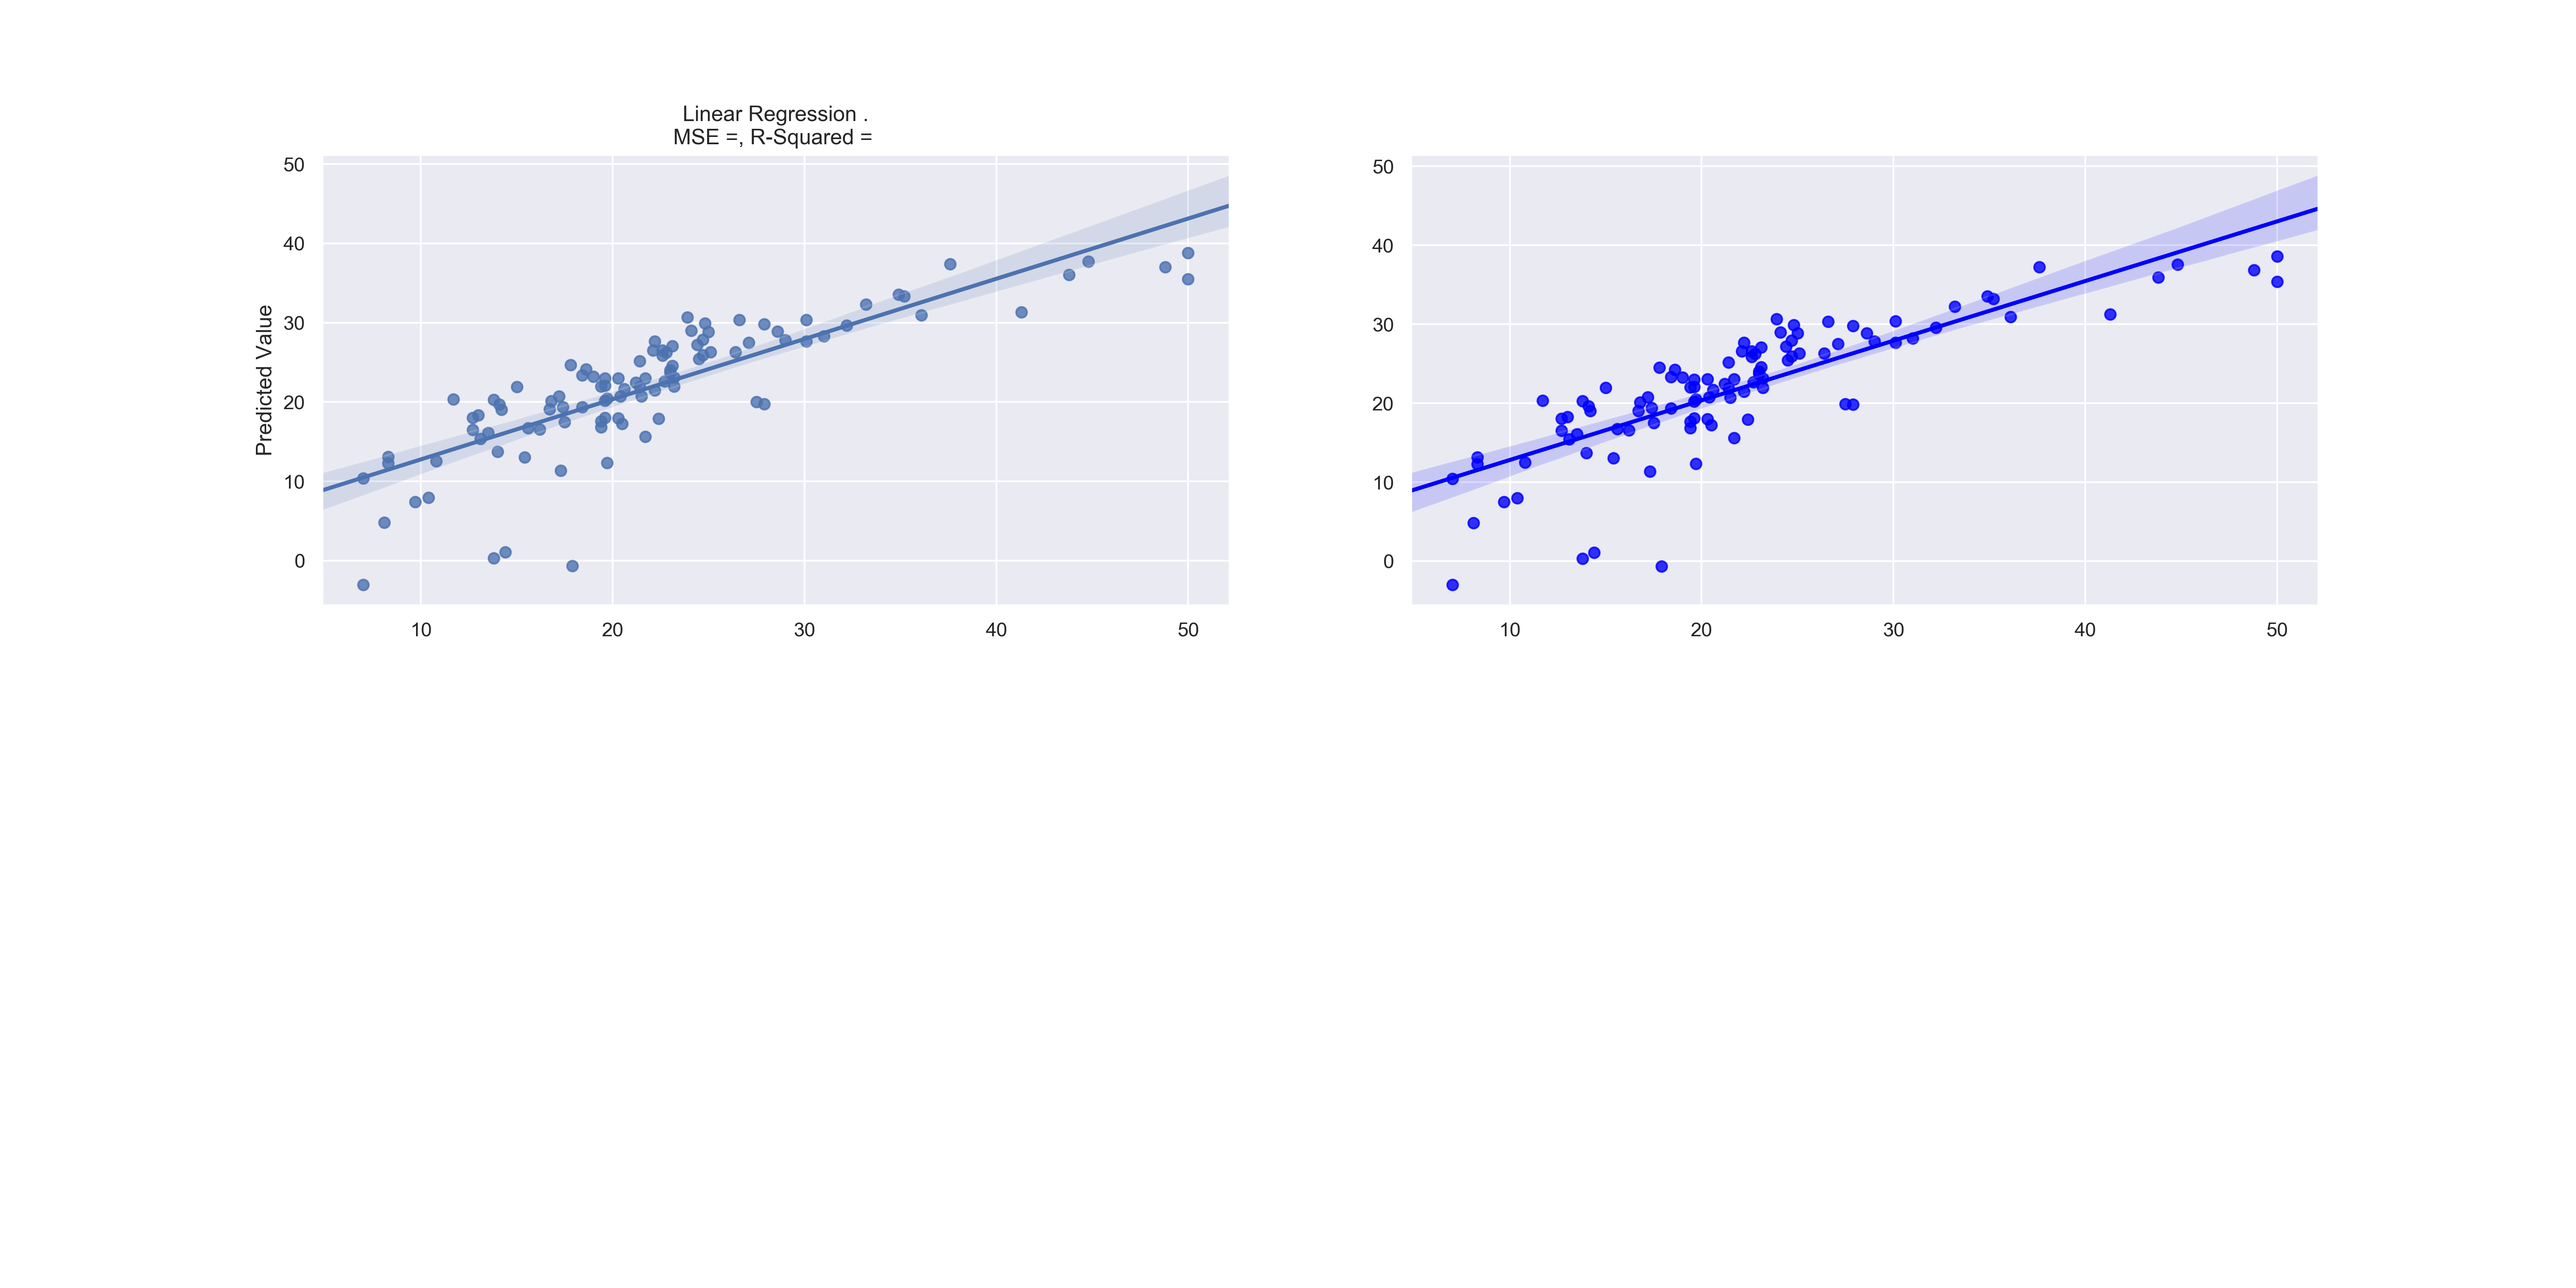
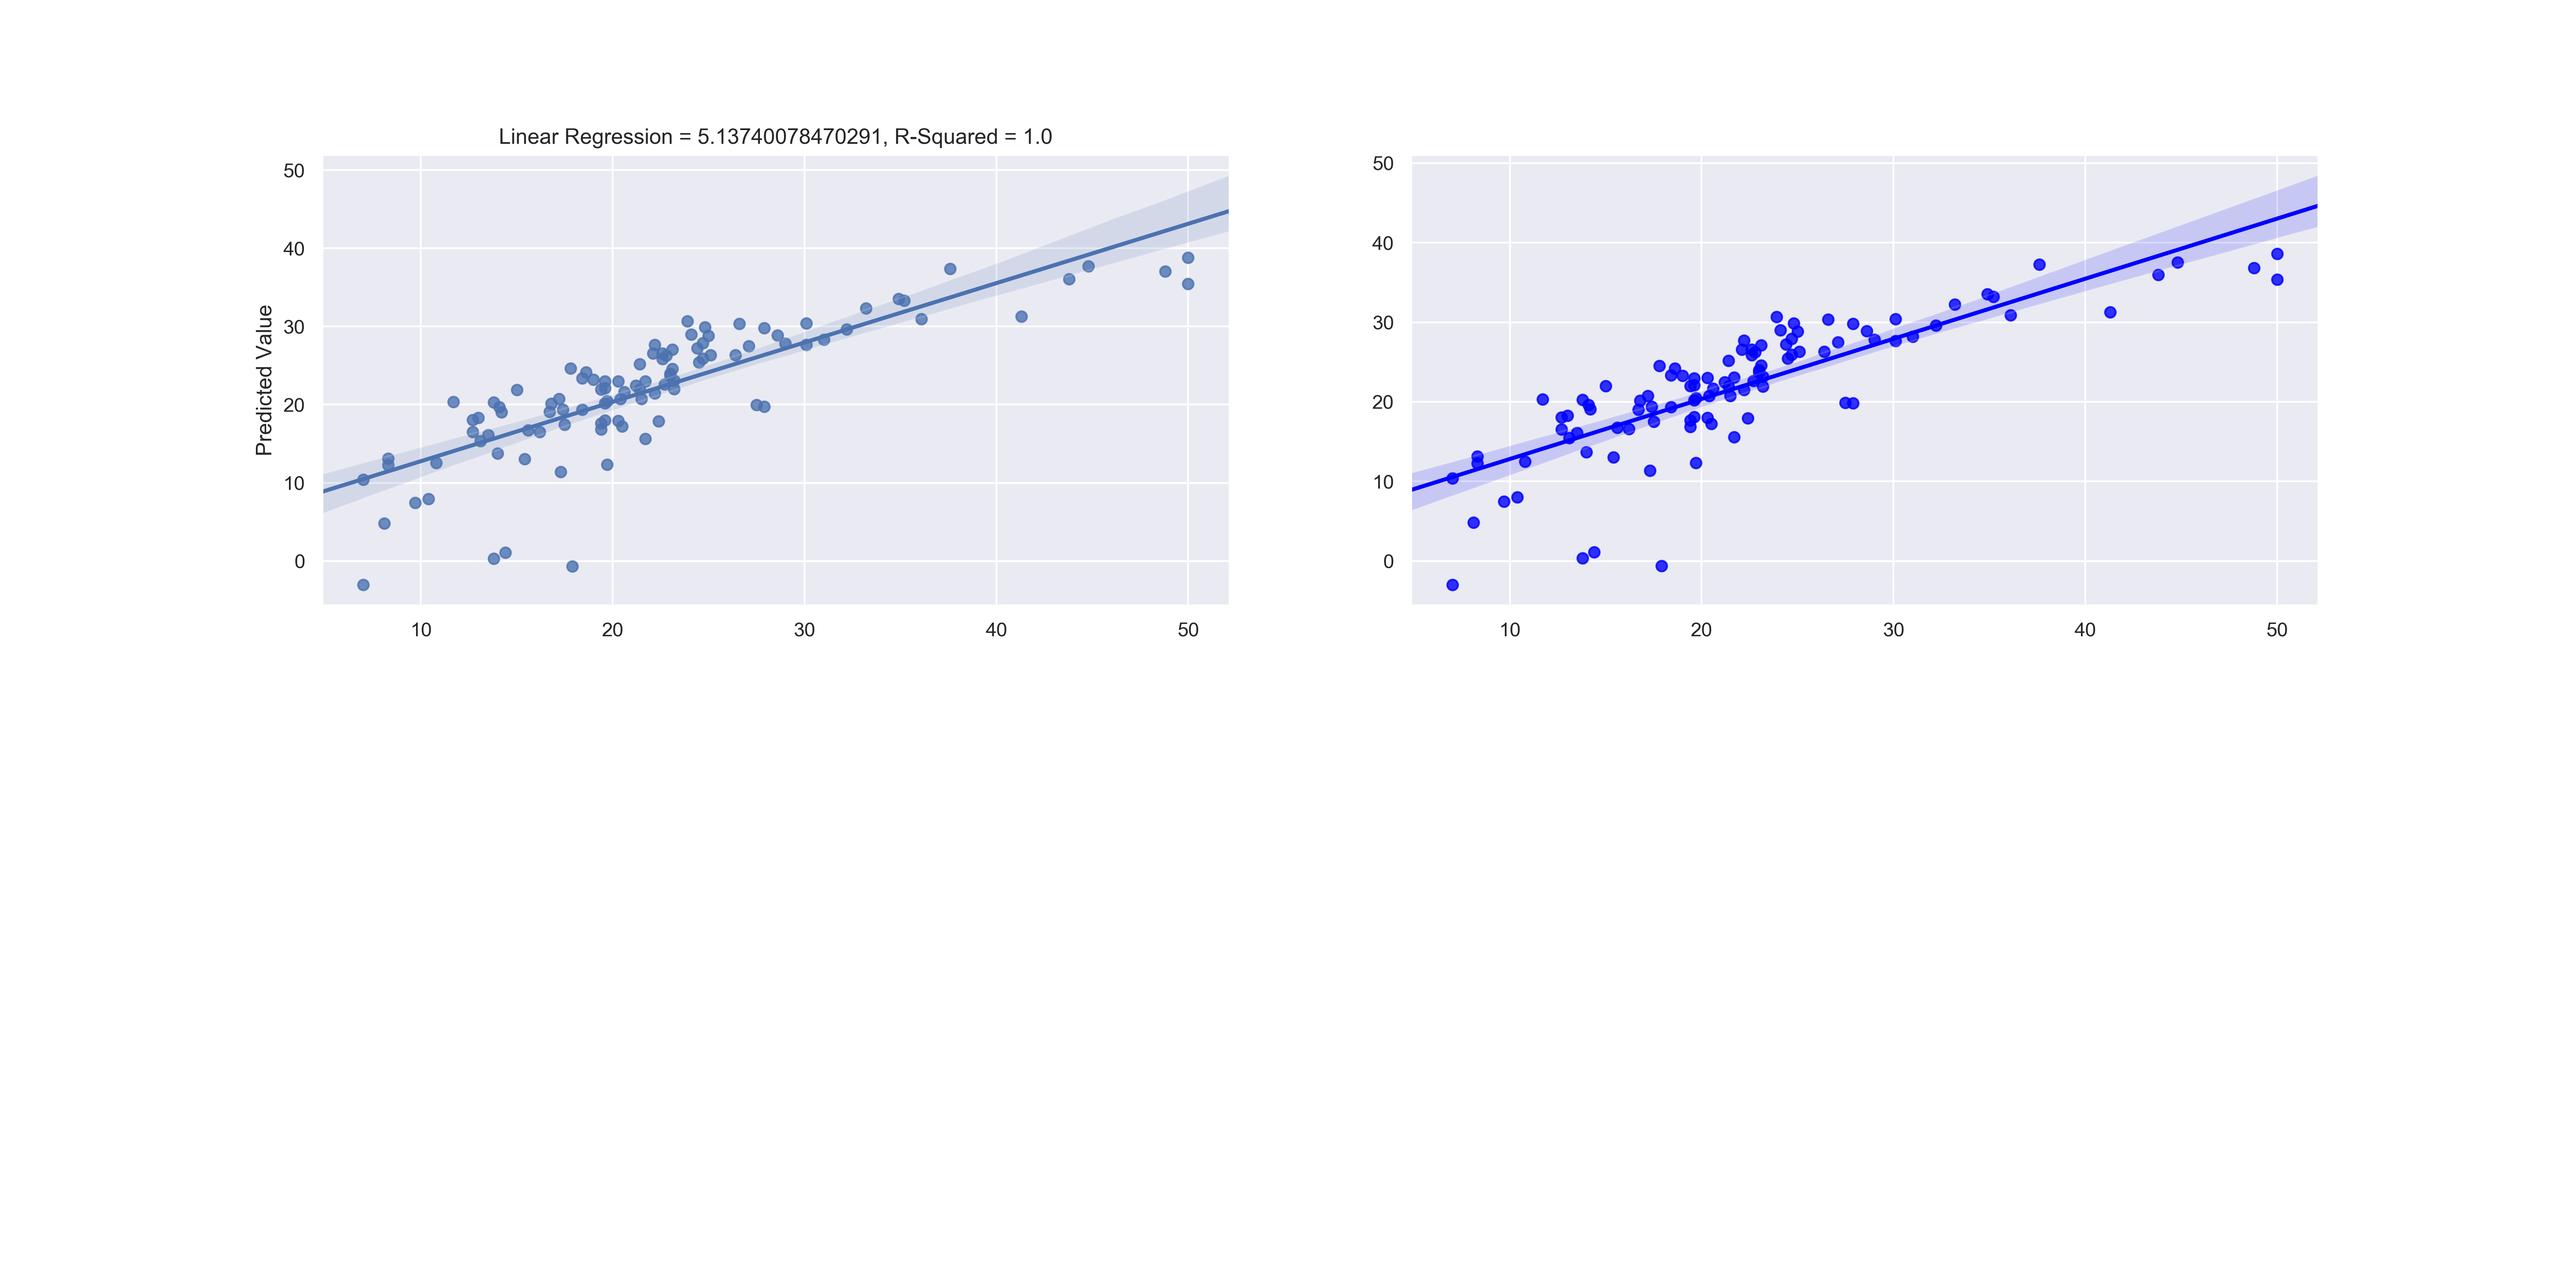
5

diff --git a/Data.py b/Data.py
@@ -75,7 +75,7 @@ plt.subplot(2, 2, 1)
 
 regres = sns.regplot(Y_expected, Y_test_predict)
 plt.ylabel('Predicted Value')
-plt.title('Linear Regression .\nMSE =, R-Squared = '.format(lr_rmse,lr_r2))
+plt.title('Linear Regression = {}, R-Squared = {}'.format(lr_rmse,lr_r2))
 
 
 
